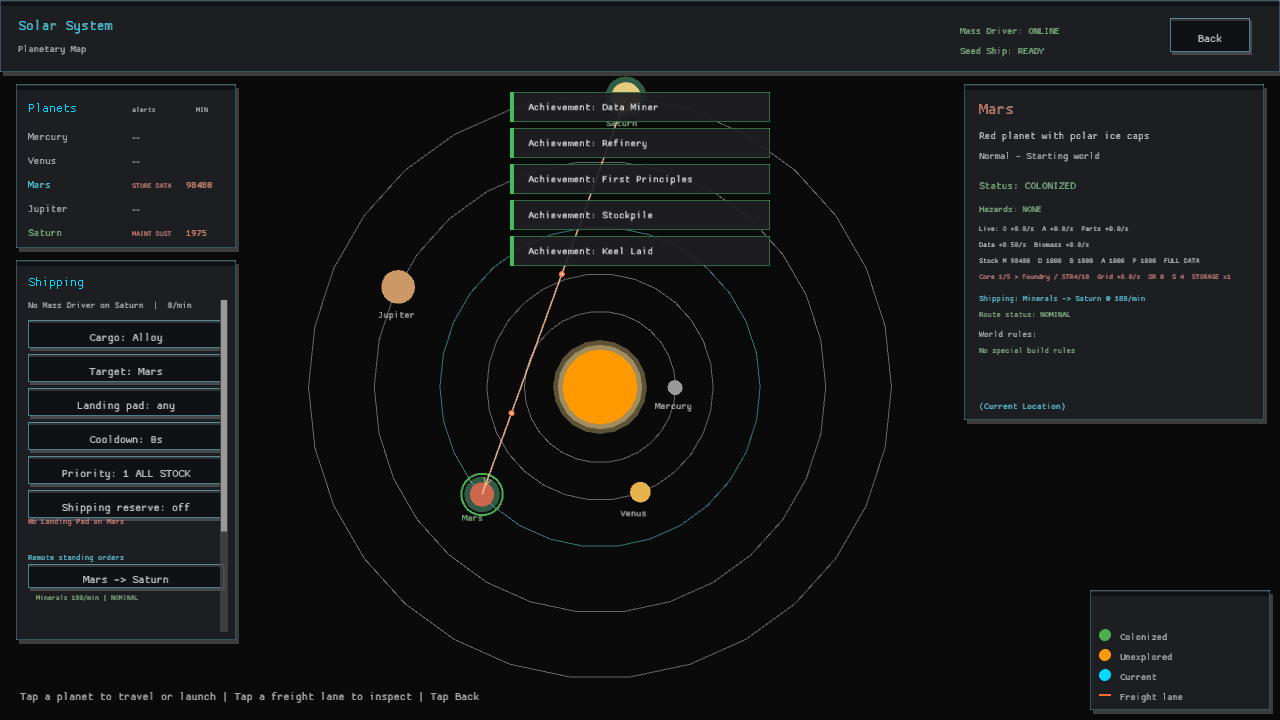
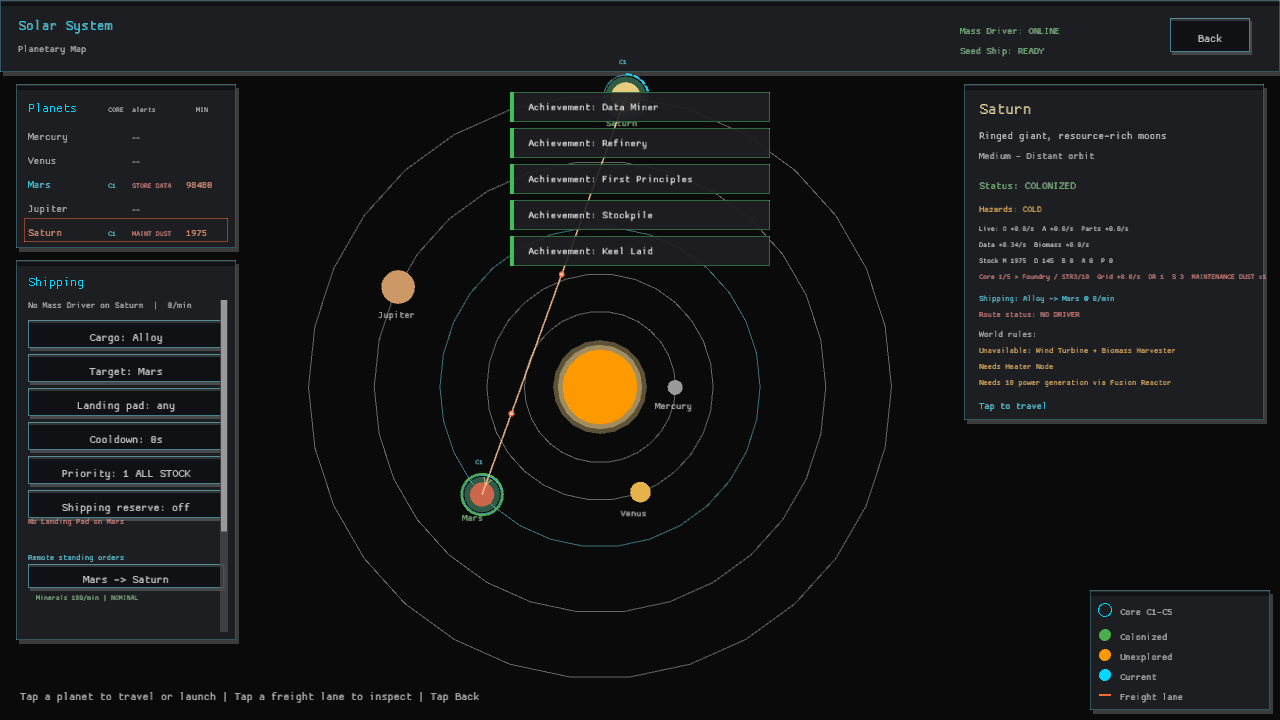
The swarm keeps freight edits tied to their source world (remote freight navigation, GDD 4)
Remote freight orders now keep their source world selected when the player switches to WORLDS, so the desktop dossier explains the active route and the required recovery action. The edited source row carries an accent outline, matching the mobile recovery flow and keeping the order anchored while the orbit map is visible. Added regression coverage and refreshed desktop/mobile verification captures.

diff --git a/src/screens/interplanetary_view.rs b/src/screens/interplanetary_view.rs
@@ -77,6 +77,18 @@ fn solar_map_layout(
     )
 }
 
+fn initial_dossier_focus(
+    launch_confirmation_target: Option<usize>,
+    editing_world: usize,
+    current_planet: usize,
+    planet_count: usize,
+) -> Option<usize> {
+    launch_confirmation_target
+        .filter(|index| *index < planet_count)
+        .or_else(|| (editing_world < planet_count).then_some(editing_world))
+        .or_else(|| (current_planet < planet_count).then_some(current_planet))
+}
+
 /// Everything the map reads out of the campaign. One struct rather than a
 /// growing row of positional booleans, which is how a caller ends up passing
 /// "ready" where "colonized" was wanted.
@@ -192,7 +204,12 @@ pub fn render_interplanetary_view(
     // Keep a dossier visible when the map opens. This gives touch players a
     // useful first target and means the planet list can be used for travel
     // without making the orbit nodes the only way to learn about a world.
-    let mut hovered_planet = view.launch_confirmation_target.or(Some(current_planet));
+    let mut hovered_planet = initial_dossier_focus(
+        view.launch_confirmation_target,
+        view.editing_world,
+        current_planet,
+        planets.len(),
+    );
     let mut action = InterplanetaryAction::None;
 
     let list_x = 16.0;

diff --git a/src/screens/interplanetary_view/tests.rs b/src/screens/interplanetary_view/tests.rs
@@ -1,4 +1,3 @@
-use super::compact_interplanetary_layout;
 use super::shipping_panel::{
     remote_section_shift, reserve_status_text, route_hit_test, route_segment, route_status_label,
     shipment_route_label, target_pad_available,
@@ -11,6 +10,7 @@ use super::world_dossier::{
     compact_shipping_status, shipping_status_line, shipping_summary, world_alert_code,
     world_rule_lines, world_telemetry_height,
 };
+use super::{compact_interplanetary_layout, initial_dossier_focus};
 
 #[test]
 fn shipping_status_distinguishes_absent_and_offline_drivers() {
@@ -120,6 +120,14 @@ fn short_or_tablet_worlds_use_the_full_width_compact_layout() {
     assert!(compact_interplanetary_layout(1280.0, 400.0));
     assert!(compact_interplanetary_layout(800.0, 720.0));
     assert!(!compact_interplanetary_layout(1280.0, 720.0));
+}
+
+#[test]
+fn desktop_dossier_follows_the_remote_order_source_until_a_launch_is_confirmed() {
+    assert_eq!(initial_dossier_focus(None, 4, 2, 5), Some(4));
+    assert_eq!(initial_dossier_focus(Some(1), 4, 2, 5), Some(1));
+    assert_eq!(initial_dossier_focus(Some(9), 4, 2, 5), Some(4));
+    assert_eq!(initial_dossier_focus(None, 9, 2, 5), Some(2));
 }
 
 fn telemetry(alerts: usize, alert_kind: crate::state::WorldAlert) -> crate::state::WorldTelemetry {

diff --git a/src/screens/interplanetary_view/planet_panel.rs b/src/screens/interplanetary_view/planet_panel.rs
@@ -42,6 +42,8 @@ pub(super) fn draw_planet_list(
     for (index, planet) in view.data.planets.iter().enumerate() {
         let is_current = index == view.current_planet;
         let is_colonized = view.colonized.get(index).copied().unwrap_or(false);
+        let is_editing = index == view.editing_world
+            && view.orders.get(index).is_some_and(|order| order.is_some());
         let row = Rect::new(x + 8.0, row_y - row_top_offset, w - 16.0, row_height);
         note_neighbour(row);
         let hit_row = touch_area(row);
@@ -59,9 +61,14 @@ pub(super) fn draw_planet_list(
         } else if view.launch_confirmation_target == Some(index) {
             draw_rectangle(row.x, row.y, row.w, row.h, Color::new(1.0, 0.45, 0.1, 0.14));
         }
+        if is_editing {
+            draw_rectangle_lines(row.x, row.y, row.w, row.h, 1.0, Colors::ACCENT);
+        }
         let confirming = view.launch_confirmation_target == Some(index);
         let label_color = if is_current {
             Colors::PRIMARY
+        } else if is_editing {
+            Colors::ACCENT
         } else if is_colonized {
             Colors::SUCCESS
         } else if confirming {

diff --git a/README.md b/README.md
@@ -127,7 +127,8 @@ or `JUMP MIXED` when upkeep is the active recovery.
 When a remote freight order is selected, switching to WORLDS keeps that
 source's dossier selected. If its route needs a receiving pad, the dossier
 names the destination row to tap; if the driver is the blocker, it names the
-source row instead.
+source row instead. On desktop, the edited source row also carries an accent
+outline so the order remains anchored while the orbit map is in view.
 When it reports SAVE FAILED, tap RETRY to attempt the campaign save again.
 On the title screen, SAVE appears only after New Game or Continue/Load, so an
 existing slot cannot be overwritten before a campaign is selected.
